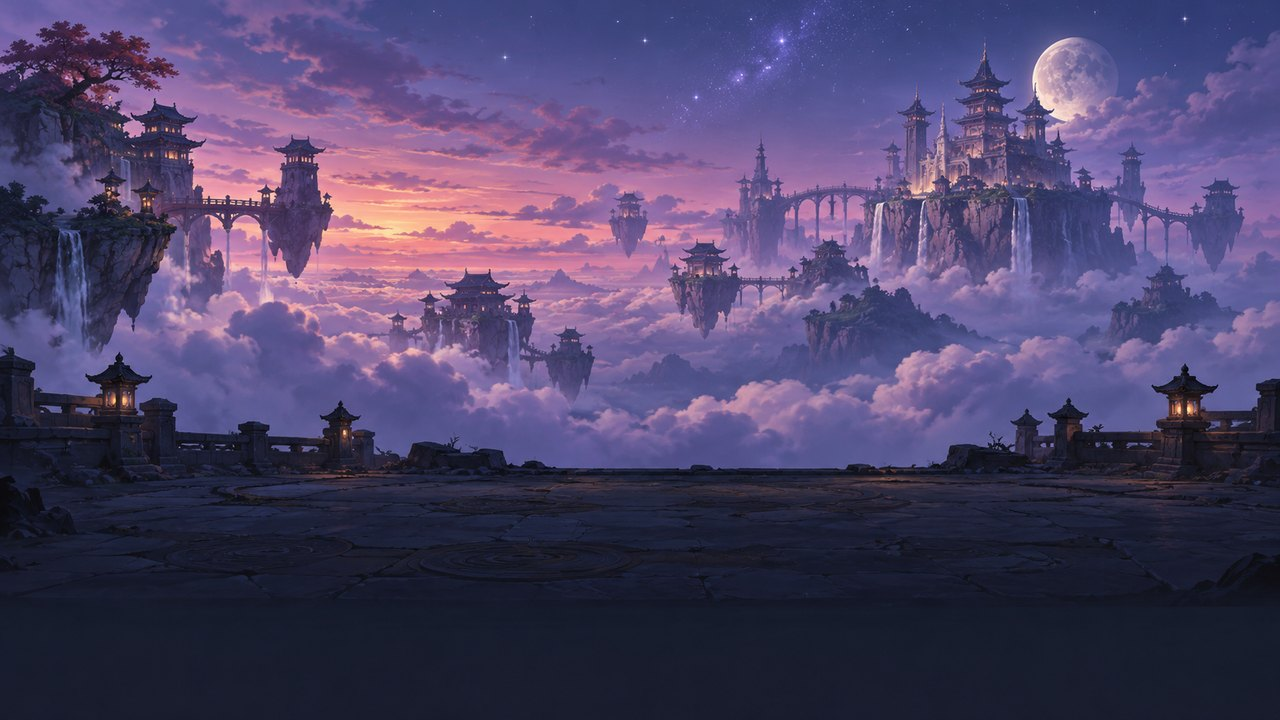
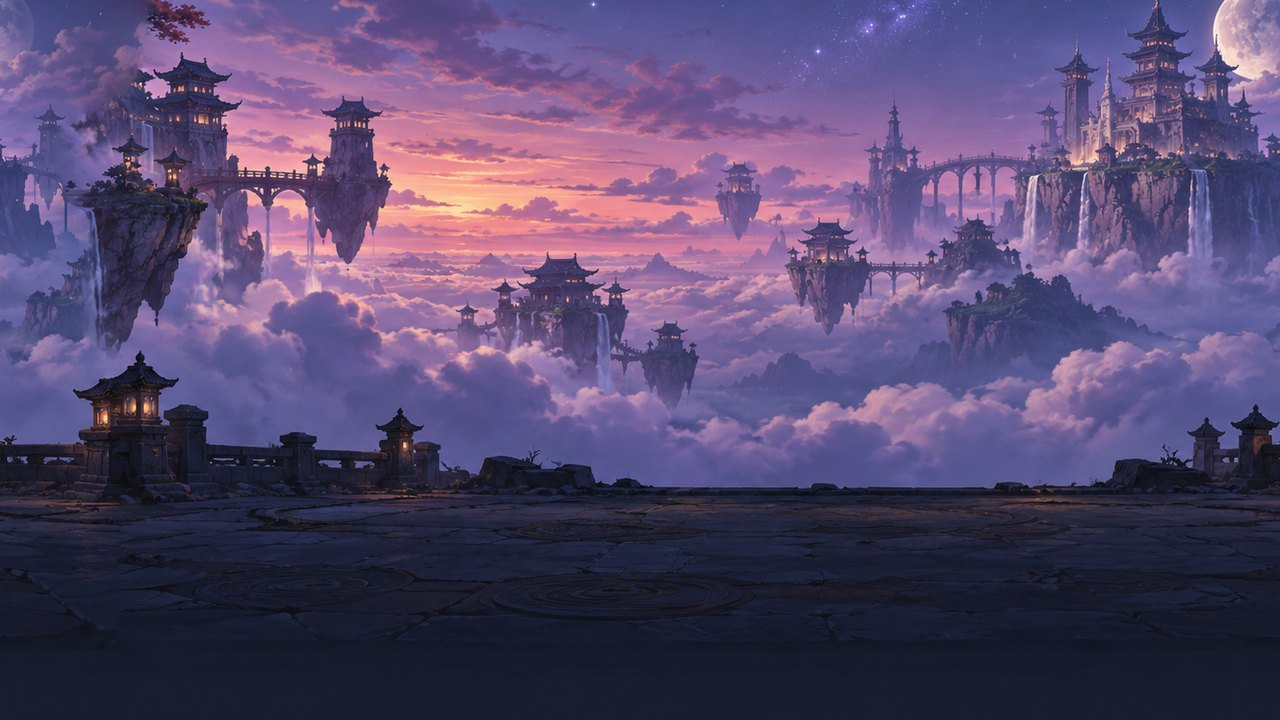
fix: 배경 원경·전경 레이어를 이음매 없는 반복 타일로 — 좌우 반전 대칭 제거 (v1.13.1)
원경을 그림과 좌우 반전본으로 이어 붙여 반복하던 탓에 해·달·용·건물이
거울처럼 둘씩 보이고, 전경 레이어는 반복 경계마다 투명하게 끊겼다.

- tools/process_art.py: 원본 좌우 끝을 겹쳐 두 끝이 가장 비슷한 곳을 지나는
  세로 경계(이미지 퀼팅)로 잇는다. 원경은 경계 둘레 밝기 차이를 기울기 합성
  (Poisson, NumPy 켤레 기울기법)으로 펴서 한쪽에만 있는 건물이 비치지 않게 한다.
  원경 1280x720(화면 폭, 위아래 약 15% 잘림), 레이어 1400x720 반복 주기.
- Parallax: 반전본 캔버스(bgm_*)를 없애고 bg_<theme>를 그대로 가로 반복.
- 이음매 자리의 색 변화는 그림 안 이웃 열 차이의 중앙값~99백분위 안(6개 테마).

diff --git a/src/game/backgrounds/Parallax.ts b/src/game/backgrounds/Parallax.ts
@@ -80,9 +80,10 @@ const GEAR_SPOTS: Array<[number, number, number]> = [
 ];
 
 /**
- * 스테이지 배경. 천천히 흐르는 원경 일러스트(`bg_<theme>`+좌우 반전본) 위에 가로로 반복되는
- * 전경 레이어(`layer_<theme>`)와 테마별 속도감 입자를 흘리고, 도시 테마는 회전 톱니 3개를 더한다.
- * 모든 텍스처는 BootScene에서 로드한 그림(art-raw → tools/process_art.py)이다.
+ * 스테이지 배경. 천천히 흐르는 원경 일러스트(`bg_<theme>`) 위에 전경 레이어(`layer_<theme>`)와
+ * 테마별 속도감 입자를 흘리고, 도시 테마는 회전 톱니 3개를 더한다.
+ * 원경과 레이어는 tools/process_art.py가 좌우 끝을 이어 붙인 반복 타일이라 그대로 가로 반복한다
+ * (원경 반복 주기 1280 = 화면 폭, 레이어 1400 — 한 화면에 같은 그림이 두 번 보이지 않는다).
  */
 export class Parallax {
   private readonly layers: Layer[] = [];
@@ -94,8 +95,7 @@ export class Parallax {
   private mult = 1;
 
   constructor(private readonly scene: Phaser.Scene, private readonly theme: ParallaxTheme) {
-    // 원경: 그림과 좌우 반전본을 이어 붙인 텍스처를 천천히 흘려 이음매 없이 반복한다.
-    this.sky = scene.add.tileSprite(0, 0, WIDTH, HEIGHT, Parallax.mirroredSky(scene, theme)).setOrigin(0).setDepth(-10);
+    this.sky = scene.add.tileSprite(0, 0, WIDTH, HEIGHT, `bg_${theme}`).setOrigin(0).setDepth(-10);
 
     const layerKey = `layer_${theme}`;
     const src = scene.textures.get(layerKey).getSourceImage();
@@ -133,25 +133,6 @@ export class Parallax {
 
     // 보스 페이즈 어둠은 배경만 덮는다(탄·기체까지 어두워지면 피할 수 없는 어둠이 된다).
     this.darkness = scene.add.rectangle(0, 0, WIDTH, HEIGHT, 0x000000, 0).setOrigin(0).setDepth(-4).setVisible(false);
-  }
-
-  /** `bg_<theme>`와 그 좌우 반전본을 나란히 그린 2배 폭 캔버스 텍스처(한 번 만들어 재사용) */
-  private static mirroredSky(scene: Phaser.Scene, theme: ParallaxTheme): string {
-    const key = `bgm_${theme}`;
-    if (scene.textures.exists(key)) return key;
-    const src = scene.textures.get(`bg_${theme}`).getSourceImage() as HTMLImageElement;
-    const tex = scene.textures.createCanvas(key, WIDTH * 2, HEIGHT);
-    if (!tex) return `bg_${theme}`;
-    const ctx = tex.getContext();
-    ctx.drawImage(src, 0, 0, WIDTH, HEIGHT);
-    ctx.save();
-    ctx.translate(WIDTH * 2, 0);
-    ctx.scale(-1, 1);
-    ctx.drawImage(src, 0, 0, WIDTH, HEIGHT);
-    ctx.restore();
-    tex.refresh();
-    tex.setFilter(Phaser.Textures.FilterMode.LINEAR);
-    return key;
   }
 
   update(dtMs: number): void {

diff --git a/tools/process_art.py b/tools/process_art.py
@@ -4,14 +4,15 @@
 
 - 스프라이트: 투명 여백을 잘라낸 뒤 비율을 유지해 목표 텍스처 크기 안에 맞추고 가운데 배치한다.
   목표 크기는 기존 텍스처 크기와 같다(히트박스가 프레임 크기를 기준으로 잡히므로 바꾸지 않는다).
-- 배경: 1280x720으로 맞춰 자른 JPEG.
-- 전경 레이어: 그림 띠를 잘라 1600x720 투명 PNG 아래쪽에 배치, 좌우 끝을 투명하게 페이드(가로 반복용).
+- 배경: 1280x720으로 맞춰 자른 JPEG. 스테이지 원경(가로 반복)은 좌우 끝이 이어지게 가공한다(make_tileable).
+- 전경 레이어: 그림 띠를 잘라 투명 PNG(높이 720) 아래쪽에 배치하고, 좌우 끝이 이어지게 가공한다(가로 반복용).
 원본이 없는 키는 건너뛰고 목록을 출력한다.
 """
 from pathlib import Path
 import sys
 
-from PIL import Image, ImageChops
+import numpy as np
+from PIL import Image
 
 ROOT = Path(__file__).resolve().parent.parent
 RAW = ROOT / "art-raw"
@@ -112,15 +113,20 @@ BACKGROUND_KEYS = [
     "story_0", "story_1", "story_2", "story_3", "story_4", "story_5",
 ]
 BG_SIZE = (1280, 720)
+# 게임 중 가로로 흐르는 스테이지 원경. 원본을 (1280 + SKY_OVERLAP) 폭으로 맞춘 뒤 좌우 끝 SKY_OVERLAP을 겹쳐
+# 1280폭 반복 타일로 만든다(타일이 화면보다 좁으면 같은 그림이 한 화면에 두 번 보인다). 대신 위아래가 약 15% 잘린다.
+SKY_KEYS = ["bg_valley", "bg_city", "bg_palace", "bg_fortress", "bg_market", "bg_rift"]
+SKY_OVERLAP = 224
 # 캐릭터 선택 화면 기체(select_<id>)
 SELECT_SIZE = (220, 170)
 # 필살기 컷인 띠(가로로 아주 긴 일러스트)
 CUTIN_KEYS = ["cutin_yun", "cutin_ryeohwa", "cutin_mooyoung", "cutin_soyul", "cutin_haerang", "cutin_hyegak", "cutin_seori"]
 CUTIN_SIZE = (1280, 360)
-# 가로로 반복되는 전경 레이어(투명 PNG). 높이를 화면 높이에 맞추고 좌우 끝을 투명하게 비워 이음매를 없앤다.
+# 가로로 반복되는 전경 레이어(투명 PNG). 그림 띠를 LAYER_W 폭으로 맞추고 좌우 끝 LAYER_OVERLAP을 겹쳐 잇는다
+# (반복 주기 = LAYER_W - LAYER_OVERLAP, 화면 폭 1280보다 넓게).
 LAYER_KEYS = ["layer_valley", "layer_city", "layer_palace", "layer_fortress", "layer_market", "layer_rift"]
-LAYER_EDGE = 0.04
 LAYER_W = 1600
+LAYER_OVERLAP = 200
 LAYER_CENTER_Y = 0.72
 
 
@@ -152,28 +158,155 @@ def fit_background(src: Image.Image, size: tuple[int, int] = BG_SIZE) -> Image.I
     return img.crop((left, top, left + tw, top + th))
 
 
+def _box_blur(a: np.ndarray, r: int) -> np.ndarray:
+    """2차원 배열 상자 흐림(가장자리는 끝값 연장)."""
+    k = 2 * r + 1
+    c = np.pad(a, r, mode="edge").cumsum(0)
+    c = np.vstack([np.zeros((1, c.shape[1])), c])
+    c = ((c[k:] - c[:-k]) / k).cumsum(1)
+    c = np.hstack([np.zeros((c.shape[0], 1)), c])
+    return (c[:, k:] - c[:, :-k]) / k
+
+
+def _min_cut(err: np.ndarray, lo: int, hi: int, slope: int = 2) -> np.ndarray:
+    """위에서 아래로 내려가는 경계(행마다 열 하나, 다음 행으로 최대 slope칸) 중 err 합이 가장 작은 것의 열 위치."""
+    h, w = err.shape
+    idx = np.arange(w)
+    cost = np.full(w, np.inf)
+    cost[lo:hi + 1] = err[0, lo:hi + 1]
+    back = np.zeros((h, w), dtype=np.int64)
+    for y in range(1, h):
+        best = np.full(w, np.inf)
+        arg = idx.copy()
+        for d in range(-slope, slope + 1):
+            shifted = np.full(w, np.inf)
+            if d < 0:
+                shifted[-d:] = cost[:d]
+            elif d > 0:
+                shifted[:-d] = cost[d:]
+            else:
+                shifted = cost.copy()
+            # 옆으로 움직일수록 조금 비싸게 매겨 곧은 경계를 고른다
+            shifted += abs(d) * 0.02
+            better = shifted < best
+            best[better] = shifted[better]
+            arg[better] = idx[better] + d
+        cost = np.full(w, np.inf)
+        cost[lo:hi + 1] = best[lo:hi + 1] + err[y, lo:hi + 1]
+        back[y] = arg
+    cut = np.zeros(h, dtype=np.int64)
+    cut[-1] = int(cost.argmin())
+    for y in range(h - 1, 0, -1):
+        cut[y - 1] = back[y, cut[y]]
+    return cut
+
+
+def _poisson_band(a: np.ndarray, b: np.ndarray, cut: np.ndarray) -> np.ndarray:
+    """경계 왼쪽은 a, 오른쪽은 b의 기울기를 따르고 양 끝은 띠 바깥 그림에 이어지는 띠를 푼다(행렬 없는 켤레 기울기법).
+
+    색을 반투명하게 섞으면 한쪽에만 있는 건물이 유령처럼 비친다. 기울기로 합치면 그림은 경계에서 또렷이 갈리고
+    밝기·색 차이만 띠 전체에 고르게 퍼진다.
+    """
+    h, o, _ = a.shape
+    on_b = np.arange(o)[None, :] >= cut[:, None]
+
+    def guide(ga: np.ndarray, gb: np.ndarray, s0: np.ndarray, s1: np.ndarray) -> np.ndarray:
+        both_b = (s0 & s1)[..., None]
+        both_a = (~s0 & ~s1)[..., None]
+        return np.where(both_b, gb, np.where(both_a, ga, 0.5 * (ga + gb)))
+
+    gx = guide(a[:, 1:] - a[:, :-1], b[:, 1:] - b[:, :-1], on_b[:, :-1], on_b[:, 1:])
+    gy = guide(a[1:] - a[:-1], b[1:] - b[:-1], on_b[:-1], on_b[1:])
+    rhs = np.zeros_like(a)
+    rhs[:, :-1] -= gx
+    rhs[:, 1:] += gx
+    rhs[:-1] -= gy
+    rhs[1:] += gy
+    # 띠 바깥 이웃은 고정값이다: 왼쪽 = 타일 마지막 열(a 바로 앞 그림), 오른쪽 = 띠 다음 열(b 바로 뒤 그림).
+    # 우변으로 옮기는 값(이웃값 + 원래 그림의 기울기)은 a의 첫 열, b의 마지막 열과 같다.
+    rhs[:, :1] += a[:, :1]
+    rhs[:, -1:] += b[:, -1:]
+    deg = np.full((h, 1, 1), 4.0)
+    deg[0] = deg[-1] = 3.0
+
+    def lap(u: np.ndarray) -> np.ndarray:
+        out = deg * u
+        out[:, 1:] -= u[:, :-1]
+        out[:, :-1] -= u[:, 1:]
+        out[1:] -= u[:-1]
+        out[:-1] -= u[1:]
+        return out
+
+    u = np.where(on_b[..., None], b, a)
+    r = rhs - lap(u)
+    p = r.copy()
+    rs = rs0 = float((r * r).sum())
+    for _ in range(5000):
+        if rs <= rs0 * 1e-10:
+            break
+        ap = lap(p)
+        alpha = rs / float((p * ap).sum())
+        u += alpha * p
+        r -= alpha * ap
+        rn = float((r * r).sum())
+        p = r + (rn / rs) * p
+        rs = rn
+    return u
+
+
+def make_tileable(src: np.ndarray, overlap: int, poisson: bool = True) -> np.ndarray:
+    """가로 반복 타일을 만든다(이미지 퀼팅). 폭이 overlap만큼 줄어든다.
+
+    타일 앞부분 overlap 열은 원본 오른쪽 끝(타일 마지막 열에서 이어지는 그림)과 왼쪽 끝(타일 overlap 열로 이어지는 그림)을
+    겹친 띠다. 두 그림이 가장 비슷한 곳을 지나는 세로 경계를 찾아 왼쪽은 오른쪽 끝, 오른쪽은 왼쪽 끝 그림으로 채운다.
+    poisson=False면 경계 둘레 몇 px만 섞는다(투명 레이어용: 경계가 대개 빈 곳을 지나고, 알파는 기울기로 풀면 번진다).
+    """
+    h, w, _ = src.shape
+    wt = w - overlap
+    a = src[:, wt:]
+    b = src[:, :overlap]
+    margin = 12
+    cut = _min_cut(_box_blur(((a - b) ** 2).sum(2), 2), margin, overlap - margin - 1)
+    out = src[:, :wt].copy()
+    if poisson:
+        out[:, :overlap] = _poisson_band(a, b, cut)
+    else:
+        feather = 3
+        t = np.clip((np.arange(overlap)[None, :] - cut[:, None] + feather) / (2 * feather), 0, 1)[..., None]
+        out[:, :overlap] = a * (1 - t) + b * t
+    return np.clip(out, 0, 1)
+
+
+def fit_sky(src: Image.Image) -> Image.Image:
+    """스테이지 원경: 폭 1280 + SKY_OVERLAP으로 맞춰 가운데 720을 자른 뒤 1280x720 반복 타일로 만든다."""
+    img = src.convert("RGB")
+    tw, th = BG_SIZE
+    ws = tw + SKY_OVERLAP
+    img = img.resize((ws, max(th, round(img.height * ws / img.width))), Image.LANCZOS)
+    top = (img.height - th) // 2
+    arr = np.asarray(img.crop((0, top, ws, top + th)), dtype=np.float64) / 255
+    return Image.fromarray((make_tileable(arr, SKY_OVERLAP) * 255 + 0.5).astype(np.uint8))
+
+
 def fit_layer(src: Image.Image) -> Image.Image:
-    """그림 띠를 잘라 폭 LAYER_W로 맞추고, 높이 720 투명 캔버스의 LAYER_CENTER_Y 위치에 놓는다."""
+    """그림 띠를 잘라 폭 LAYER_W로 맞춰 반복 타일로 만들고, 높이 720 투명 캔버스의 LAYER_CENTER_Y 위치에 놓는다."""
     img = src.convert("RGBA")
     bbox = img.getchannel("A").point(lambda a: 255 if a > 8 else 0).getbbox()
     if bbox is None:
         raise ValueError("완전히 투명한 이미지")
     img = img.crop((0, bbox[1], img.width, bbox[3]))
     img = img.resize((LAYER_W, round(img.height * LAYER_W / img.width)), Image.LANCZOS)
-    # 좌우 가장자리 LAYER_EDGE 폭에서 알파를 0으로 서서히 줄인다(반복 시 잘린 형태가 보이지 않게).
-    edge = max(1, round(img.width * LAYER_EDGE))
-    ramp = Image.new("L", img.size, 255)
-    px = ramp.load()
-    for x in range(edge):
-        v = round(255 * x / edge)
-        for y in range(img.height):
-            px[x, y] = v
-            px[img.width - 1 - x, y] = v
-    img.putalpha(ImageChops.multiply(img.getchannel("A"), ramp))
+    # 투명한 곳의 색이 경계 찾기·섞기에 끼어들지 않도록 알파를 곱한 색으로 다룬다.
+    arr = np.asarray(img, dtype=np.float64) / 255
+    arr[..., :3] *= arr[..., 3:]
+    tiled = make_tileable(arr, LAYER_OVERLAP, poisson=False)
+    alpha = tiled[..., 3:]
+    tiled[..., :3] = np.where(alpha > 1e-6, tiled[..., :3] / np.maximum(alpha, 1e-6), 0)
+    band = Image.fromarray((np.clip(tiled, 0, 1) * 255 + 0.5).astype(np.uint8), "RGBA")
     th = BG_SIZE[1]
-    out = Image.new("RGBA", (LAYER_W, th), (0, 0, 0, 0))
-    top = min(th - img.height, max(0, round(th * LAYER_CENTER_Y - img.height / 2)))
-    out.paste(img, (0, top))
+    out = Image.new("RGBA", (band.width, th), (0, 0, 0, 0))
+    top = min(th - band.height, max(0, round(th * LAYER_CENTER_Y - band.height / 2)))
+    out.paste(band, (0, top))
     return out
 
 
@@ -204,7 +337,8 @@ def main() -> int:
             missing.append(key)
             continue
         with Image.open(raw) as im:
-            fit_background(im).save(BACKGROUNDS / f"{key}.jpg", quality=86, optimize=True, progressive=True)
+            fitted = fit_sky(im) if key in SKY_KEYS else fit_background(im)
+            fitted.save(BACKGROUNDS / f"{key}.jpg", quality=86, optimize=True, progressive=True)
     for key in CUTIN_KEYS:
         raw = RAW / f"{key}.png"
         if not raw.exists():

diff --git a/README.md b/README.md
@@ -10,7 +10,7 @@
 
 <a href="https://jeiel85.github.io/celestial-blades/"><img src="https://img.shields.io/badge/%E2%96%B6%20%EC%A7%80%EA%B8%88%20%ED%94%8C%EB%A0%88%EC%9D%B4-PLAY%20NOW-ffd75e?style=for-the-badge&labelColor=2a1404" alt="지금 플레이"></a>
 
-<img src="https://img.shields.io/badge/version-1.13.0-a06bff?style=flat-square" alt="version">
+<img src="https://img.shields.io/badge/version-1.13.1-a06bff?style=flat-square" alt="version">
 <img src="https://img.shields.io/badge/Phaser-3.80-8fd3ff?style=flat-square" alt="Phaser">
 <img src="https://img.shields.io/badge/TypeScript-strict-3178c6?style=flat-square&logo=typescript&logoColor=white" alt="TypeScript">
 <img src="https://img.shields.io/badge/Vite-5-646cff?style=flat-square&logo=vite&logoColor=white" alt="Vite">
@@ -221,7 +221,7 @@ npm run preview  # 빌드 결과 미리보기
 모든 그림(캐릭터·적·보스·탄·이펙트·아이템·배경·초상화·엔딩 일러스트·터치 UI)은 Codex 이미지 생성으로 만든 원본을 게임 크기에 맞게 가공해 번들에 포함합니다.
 
 1. 원본 PNG를 `art-raw/<텍스처키>.png`에 둡니다(git 제외).
-2. `python tools/process_art.py`를 실행하면 `src/assets/`가 갱신됩니다.
+2. `python tools/process_art.py`를 실행하면 `src/assets/`가 갱신됩니다(Pillow·NumPy 필요). 스테이지 원경·전경 레이어는 이때 좌우 끝이 이어지는 반복 타일로 가공됩니다.
 
 목표 크기는 스크립트의 `SPRITE_SIZES`에 있습니다. 히트박스가 프레임 크기를 기준으로 잡히므로 크기는 바꾸지 않습니다. 파일명이 곧 텍스처 키이고, 코드가 참조하는 그림이 빠지면 부팅 단계에서 오류를 표시합니다.
 
